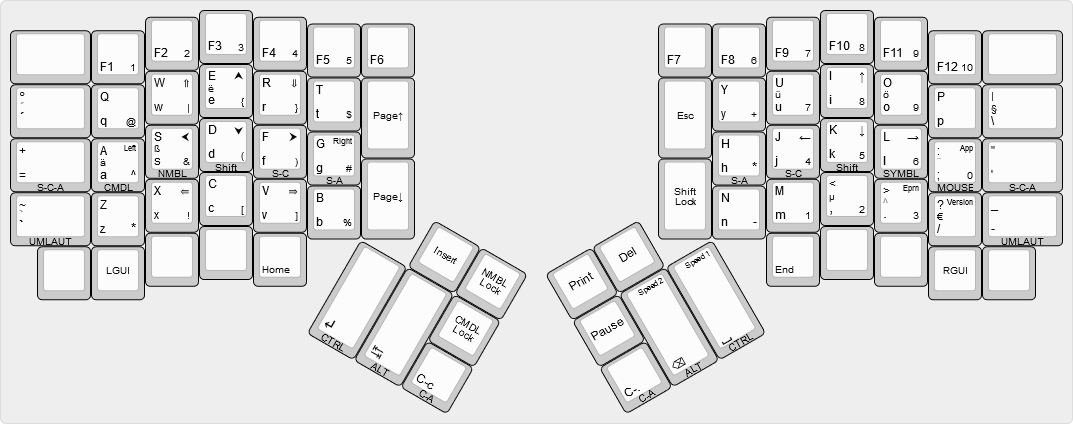
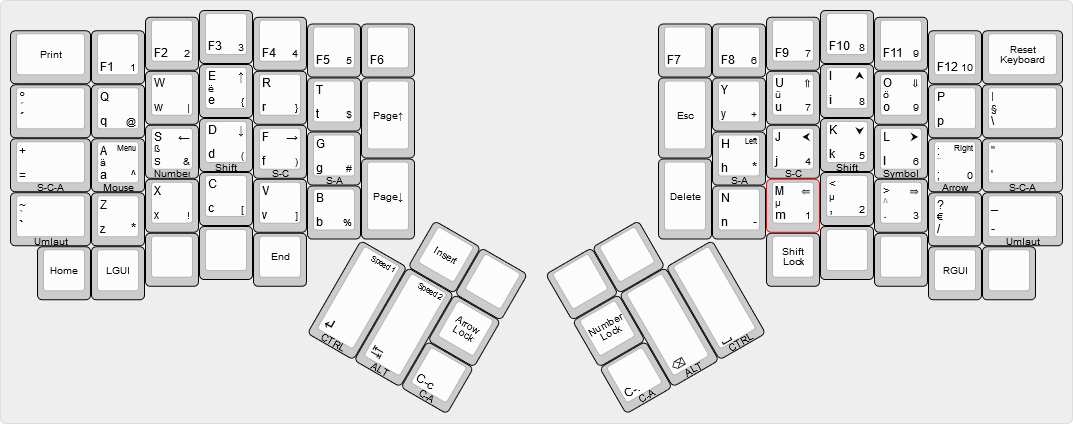
switched mouse and arrow layer, updated some other keys

diff --git a/keyboards/ergodox_ez/keymaps/wramos/keymap.c b/keyboards/ergodox_ez/keymaps/wramos/keymap.c
@@ -20,9 +20,7 @@ uint32_t GRAVE_WHEN_TAPPED_CAPS_WHEN_HELD_TIMER = 0;
 uint32_t MINUS_WHEN_TAPPED_CAPS_WHEN_HELD_TIMER = 0;
 
 enum custom_keycodes {
-    EPRM = SAFE_RANGE,
-    VRSN,
-    NON_LOCKING_CAPS,
+    NON_LOCKING_CAPS = SAFE_RANGE,
     SHIFT_LOCK,
     ctl_c_when_tapped_ctl_alt_when_held,
     ctl_dot_when_tapped_ctl_alt_when_held,
@@ -36,21 +34,21 @@ const uint16_t PROGMEM keymaps[][MATRIX_ROWS][MATRIX_COLS] = {
 
 /* Keymap 0: Basic layer
  * ,--------------------------------------------------.           ,--------------------------------------------------.
- * |        |  F1  |  F2  |  F3  |  F4  |  F5  |  F6  |           |  F7  |  F8  |  F9  |  F10 |  F11 |  F12 |        |
- * |--------+------+------+------+------+-------------|           |------+------+------+------+------+------+--------|
+ * | Print  |  F1  |  F2  |  F3  |  F4  |  F5  |  F6  |           |  F7  |  F8  |  F9  |  F10 |  F11 |  F12 | Reset  |
+ * |--------+------+------+------+------+------+------|           |------+------+------+------+------+------+--------|
  * |  NUBS  |   Q  |   W  |   E  |   R  |   T  | Page |           | ESC  |   Y  |   U  |   I  |   O  |   P  |   \    |
  * |--------+------+------+------+------+------|  up  |           |      |------+------+------+------+------+--------|
  * |Shift/= | L4/A | L1/S |S-C/D |S-A/F |MEH/G |------|           |------|MEH/H |S-A/J |S-C/K | L2/L | L3/; |Shift/' |
- * |--------+------+------+------+------+------| Page |           | Shift|------+------+------+------+------+--------|
- * | CAPS/` |   Z  |   X  |   C  |   V  |   B  | down |           | Lock |   N  |   M  |   ,  |   .  |   /  | CAPS/- |
+ * |--------+------+------+------+------+------| Page |           |Delete|------+------+------+------+------+--------|
+ * | CAPS/` |   Z  |   X  |   C  |   V  |   B  | down |           |      |   N  |   M  |   ,  |   .  |   /  | CAPS/- |
  * `--------+------+------+------+------+-------------'           `-------------+------+------+------+------+--------'
- *   |      | LGUI |      |      | HOME |                                       |  END |      |      | RGUI |      |
+ *   | HOME | LGUI |      |      | END  |                                       | SLock|      |      | RGUI |      |
  *   `----------------------------------'                                       `----------------------------------'
  *                                        ,-------------.       ,-------------.
- * L1 = number layer (NUMB)               |Insert| NUML |       |Print |Delete|
+ * L1 = number layer (NUMB)               |Insert|      |       |      |      |
  * L2 = symbol layer (SYMB)        ,------|------|------|       |------+------+------.
- * L3 = mouse layer (SPECIAL_LEFT) |CTL/  |ALT/  | CMDL |       |Pause |ALT/  |CTL/  |
- * L4 = command layer (..._RIGHT)  |ENTER |TAB   |------|       |------|BCKSPC|SPACE |
+ * L3 = arrow layer (SPECIAL_LEFT) |CTL/  |ALT/  |ARROWL|       | NUML |ALT/  |CTL/  |
+ * L4 = mouse layer (SPECIAL_RIGHT)|ENTER |TAB   |------|       |------|BCKSPC|SPACE |
  *                                 |      |      |CA/C-.|       |CA/C-c|      |      |
  *                                 `--------------------'       `--------------------'
  * CA = CTRL + ALT
@@ -61,22 +59,22 @@ const uint16_t PROGMEM keymaps[][MATRIX_ROWS][MATRIX_COLS] = {
  */
 [BASE] = LAYOUT_ergodox(
   // left hand
-  KC_NO,                            KC_F1,                  KC_F2,         KC_F3,             KC_F4,                      KC_F5,                      KC_F6,
+  KC_PSCR,                          KC_F1,                  KC_F2,         KC_F3,             KC_F4,                      KC_F5,                      KC_F6,
   KC_NUBS,                          KC_Q,                   KC_W,          KC_E,              KC_R,                       KC_T,                       KC_PGUP,
   MT(MOD_MEH,KC_EQL),               LT(SPECIAL_RIGHT,KC_A), LT(NUMB,KC_S), MT(MOD_LSFT,KC_D), MT(MOD_LSFT|MOD_LCTL,KC_F), MT(MOD_LSFT|MOD_LALT,KC_G),
   grave_when_tapped_caps_when_held, KC_Z,                   KC_X,          KC_C,              KC_V,                       KC_B,                       KC_PGDN,
-  KC_NO,                            KC_LGUI,                KC_NO,         KC_NO,             KC_HOME,
-                                                           KC_INS,              TG(NUMB),
-                                                                                TG(SPECIAL_RIGHT),
+  KC_HOME,                          KC_LGUI,                KC_NO,         KC_NO,             KC_END,
+                                                           KC_INS,              KC_NO,
+                                                                                TG(SPECIAL_LEFT),
                                       MT(MOD_LCTL,KC_ENT), MT(MOD_LALT,KC_TAB), ctl_c_when_tapped_ctl_alt_when_held,
   // right hand
-  KC_F7,      KC_F8,                      KC_F9,                      KC_F10,            KC_F11,        KC_F12,                   KC_NO,
-  KC_ESC,     KC_Y,                       KC_U,                       KC_I,              KC_O,          KC_P,                     KC_BSLS,
-              MT(MOD_RSFT|MOD_LALT,KC_H), MT(MOD_RSFT|MOD_RCTL,KC_J), MT(MOD_RSFT,KC_K), LT(SYMB,KC_L), LT(SPECIAL_LEFT,KC_SCLN), MT(MOD_MEH,KC_QUOT),
-  SHIFT_LOCK, KC_N,                       KC_M,                       KC_COMM,           KC_DOT,        KC_SLSH,                  minus_when_tapped_caps_when_held,
-                                          KC_END,                     KC_NO,             KC_NO,         KC_RGUI,                  KC_NO,
-  KC_PSCR,                               KC_DEL,
-  KC_PAUS,
+  KC_F7,  KC_F8,                      KC_F9,                      KC_F10,            KC_F11,        KC_F12,                   EEPROM_RESET,
+  KC_ESC, KC_Y,                       KC_U,                       KC_I,              KC_O,          KC_P,                     KC_BSLS,
+          MT(MOD_RSFT|MOD_LALT,KC_H), MT(MOD_RSFT|MOD_RCTL,KC_J), MT(MOD_RSFT,KC_K), LT(SYMB,KC_L), LT(SPECIAL_LEFT,KC_SCLN), MT(MOD_MEH,KC_QUOT),
+  KC_DEL, KC_N,                       KC_M,                       KC_COMM,           KC_DOT,        KC_SLSH,                  minus_when_tapped_caps_when_held,
+                                      SHIFT_LOCK,                 KC_NO,             KC_NO,         KC_RGUI,                  KC_NO,
+  KC_NO,                                 KC_NO,
+  TG(NUMB),
   ctl_dot_when_tapped_ctl_alt_when_held, MT(MOD_LALT,KC_BSPC), MT(MOD_RCTL,KC_SPC)
 ),
 /* Keymap 1: Number Layer
@@ -129,7 +127,7 @@ const uint16_t PROGMEM keymaps[][MATRIX_ROWS][MATRIX_COLS] = {
  * |---------+------+------+------+------+------|      |           |      |------+------+------+------+------+--------|
  * |         |   ^  |   &  |   (  |   )  |   #  |------|           |------|      |      |      |      |      |        |
  * |---------+------+------+------+------+------|      |           |      |------+------+------+------+------+--------|
- * |         |   ~  |   !  |   [  |   ]  |   %  |      |           |      |      |      |      |      |      |        |
+ * |         |   *  |   !  |   [  |   ]  |   %  |      |           |      |      |      |      |      |      |        |
  * `---------+------+------+------+------+-------------'           `-------------+------+------+------+------+--------'
  *   |       |      |      |      |      |                                       |      |      |      |      |      |
  *   `-----------------------------------'                                       `----------------------------------'
@@ -163,17 +161,17 @@ KC_TRNS, KC_TRNS, KC_TRNS
 ),
 /* Keymap 3: Special (left hand side)
  *
- * ,--------------------------------------------------.          ,--------------------------------------------------.
- * |        |      |      |      |      |      |      |          |      |      |      |      |      |      |        |
- * |--------+------+------+------+------+-------------|          |------+------+------+------+------+------+--------|
- * |        |      | MWup | MsUp |MWdown|      |      |          |      |      |      |      |      |      |        |
- * |--------+------+------+------+------+------|      |          |      |------+------+------+------+------+--------|
- * |        | Lclk |MsLeft|MsDown|MsRght| Rclk |------|          |------|      | MAcc2| MAcc1| MAcc0|      |        |
- * |--------+------+------+------+------+------|      |          |      |------+------+------+------+------+--------|
- * |        |      |MWleft|      | MWrgt|      |      |          |      |      |      |      |      |      |        |
- * `--------+------+------+------+------+-------------'          `-------------+------+------+------+------+--------'
- *   |      |      |      |      |      |                                      |      |      |      |      |      |
- *   `----------------------------------'                                      `----------------------------------'
+ * ,--------------------------------------------------.           ,--------------------------------------------------.
+ * |        |      |      |      |      |      |      |           |      |      |      |      |      |      |        |
+ * |--------+------+------+------+------+-------------|           |------+------+------+------+------+------+--------|
+ * |        |      |      |  UP  |      |      |      |           |      |      |      |      |      |      |        |
+ * |--------+------+------+------+------+------|      |           |      |------+------+------+------+------+--------|
+ * |        | APP  | LEFT | DOWN | RIGHT|      |------|           |------|      |      |      |      |      |        |
+ * |--------+------+------+------+------+------|      |           |      |------+------+------+------+------+--------|
+ * |        |      |      |      |      |      |      |           |      |      |      |      |      |      |        |
+ * `--------+------+------+------+------+-------------'           `-------------+------+------+------+------+--------'
+ *   |      |      |      |      |      |                                       |      |      |      |      |      |
+ *   `----------------------------------'                                       `----------------------------------'
  *                                        ,-------------.       ,-------------.
  *                                        |      |      |       |      |      |
  *                                 ,------|------|------|       |------+------+------.
@@ -185,9 +183,9 @@ KC_TRNS, KC_TRNS, KC_TRNS
 [SPECIAL_LEFT] = LAYOUT_ergodox(
 // left hand
 KC_TRNS, KC_TRNS, KC_TRNS, KC_TRNS, KC_TRNS, KC_TRNS, KC_TRNS,
-KC_TRNS, KC_TRNS, KC_WH_U, KC_MS_U, KC_WH_D, KC_TRNS, KC_TRNS,
-KC_TRNS, KC_BTN1, KC_MS_L, KC_MS_D, KC_MS_R, KC_BTN2,
-KC_TRNS, KC_TRNS, KC_WH_L, KC_TRNS, KC_WH_R, KC_TRNS, KC_TRNS,
+KC_TRNS, KC_TRNS, KC_TRNS, KC_UP,   KC_TRNS, KC_TRNS, KC_TRNS,
+KC_TRNS, KC_APP,  KC_LEFT, KC_DOWN, KC_RGHT, KC_TRNS,
+KC_TRNS, KC_TRNS, KC_TRNS, KC_TRNS, KC_TRNS, KC_TRNS, KC_TRNS,
 KC_TRNS, KC_TRNS, KC_TRNS, KC_TRNS, KC_TRNS,
 KC_TRNS, KC_TRNS,
 KC_TRNS,
@@ -200,27 +198,27 @@ KC_TRNS, KC_TRNS, KC_TRNS, KC_TRNS, KC_TRNS, KC_TRNS, KC_TRNS,
                   KC_TRNS, KC_TRNS, KC_TRNS, KC_TRNS, KC_TRNS,
 KC_TRNS, KC_TRNS,
 KC_TRNS,
-KC_TRNS, KC_ACL2, KC_ACL1
+KC_TRNS, KC_TRNS, KC_TRNS
 ),
 /* Keymap 4: Special (right hand side)
  *
  * ,---------------------------------------------------.           ,--------------------------------------------------.
  * |         |      |      |      |      |      |      |           |      |      |      |      |      |      |        |
  * |---------+------+------+------+------+------+------|           |------+------+------+------+------+------+--------|
- * |         |      |      |      |      |      |      |           |      |      |      |  UP  |      |      |        |
+ * |         |      |      |      |      |      |      |           |      |      | MWup | MsUp |MWdown|      |        |
  * |---------+------+------+------+------+------|      |           |      |------+------+------+------+------+--------|
- * |         |      |      |      |      |      |------|           |------|      | LEFT | DOWN | RIGHT| APP  |        |
+ * |         |      |      |      |      |      |------|           |------| LClk |MsLeft|MsDown|MsRght| RClk |        |
  * |---------+------+------+------+------+------|      |           |      |------+------+------+------+------+--------|
- * |         |      |      |      |      |      |      |           |      |      |      |      | EPRN | VRSN |        |
+ * |         |      |      |      |      |      |      |           |      |      |MWleft|      | MWrgt|      |        |
  * `---------+------+------+------+------+-------------'           `-------------+------+------+------+------+--------'
  *   |       |      |      |      |      |                                       |      |      |      |      |      |
  *   `-----------------------------------'                                       `----------------------------------'
  *                                        ,-------------.       ,-------------.
  *                                        |      |      |       |      |      |
  *                                 ,------|------|------|       |------+------+------.
- *                                 |      |      |      |       |      |      |      |
- *                                 |      |      |------|       |------|      |      |
- *                                 |      |      |      |       |      |      |      |
+ *                                 |Mouse |Mouse |      |       |      |      |      |
+ *                                 |Speed |Speed |------|       |------|      |      |
+ *                                 |  1   |  2   |      |       |      |      |      |
  *                                 `--------------------'       `--------------------'
  */
 [SPECIAL_RIGHT] = LAYOUT_ergodox(
@@ -230,14 +228,14 @@ KC_TRNS, KC_TRNS, KC_TRNS, KC_TRNS, KC_TRNS, KC_TRNS, KC_TRNS,
 KC_TRNS, KC_TRNS, KC_TRNS, KC_TRNS, KC_TRNS, KC_TRNS,
 KC_TRNS, KC_TRNS, KC_TRNS, KC_TRNS, KC_TRNS, KC_TRNS, KC_TRNS,
 KC_TRNS, KC_TRNS, KC_TRNS, KC_TRNS, KC_TRNS,
-KC_TRNS, KC_TRNS,
-KC_TRNS,
-KC_TRNS, KC_TRNS, KC_TRNS,
-// TODO: right hand
+         KC_TRNS, KC_TRNS,
+                  KC_TRNS,
+KC_ACL1, KC_ACL2, KC_TRNS,
+// right hand
 KC_TRNS, KC_TRNS, KC_TRNS, KC_TRNS, KC_TRNS, KC_TRNS, KC_TRNS,
-KC_TRNS, KC_TRNS, KC_TRNS, KC_UP,   KC_TRNS, KC_TRNS, KC_TRNS,
-         KC_TRNS, KC_LEFT, KC_DOWN, KC_RGHT, KC_APP,  KC_TRNS,
-KC_TRNS, KC_TRNS, KC_TRNS, KC_TRNS, EPRM,    VRSN,    KC_TRNS,
+KC_TRNS, KC_TRNS, KC_WH_U, KC_MS_U, KC_WH_D, KC_TRNS, KC_TRNS,
+         KC_BTN1, KC_MS_L, KC_MS_D, KC_MS_R, KC_BTN2, KC_TRNS,
+KC_TRNS, KC_TRNS, KC_WH_L, KC_TRNS, KC_WH_R, KC_TRNS, KC_TRNS,
                   KC_TRNS, KC_TRNS, KC_TRNS, KC_TRNS, KC_TRNS,
 KC_TRNS, KC_TRNS,
 KC_TRNS,
@@ -248,16 +246,6 @@ KC_TRNS, KC_TRNS, KC_TRNS
 
 bool process_record_user(uint16_t keycode, keyrecord_t *record) {
     switch (keycode) {
-    case EPRM:
-        if (record->event.pressed) {
-            eeconfig_init();
-            return false;
-        }
-    case VRSN:
-        if (record->event.pressed) {
-            SEND_STRING (QMK_KEYBOARD "/" QMK_KEYMAP " @ " QMK_VERSION);
-            return false;
-        }
     case NON_LOCKING_CAPS:
         tap_code(KC_CAPS);
         return false;
@@ -266,9 +254,13 @@ bool process_record_user(uint16_t keycode, keyrecord_t *record) {
             if(IS_SHIFT_LOCK_ON == false) {
                 register_code(KC_LSHIFT);
                 IS_SHIFT_LOCK_ON = true;
+                ergodox_right_led_2_on();
+                ergodox_right_led_3_on();
             } else {
                 unregister_code(KC_LSHIFT);
                 IS_SHIFT_LOCK_ON = false;
+                ergodox_right_led_2_off();
+                ergodox_right_led_3_off();
             }
         }
         return false;
@@ -381,8 +373,9 @@ uint32_t layer_state_set_user(uint32_t state) {
         ergodox_right_led_3_on();
         break;
       case 6:
-        ergodox_right_led_2_on();
-        ergodox_right_led_3_on();
+          /* reserved for shift lock */
+          /* ergodox_right_led_2_on(); */
+          /* ergodox_right_led_3_on(); */
         break;
       case 7:
         ergodox_right_led_1_on();

diff --git a/keyboards/ergodox_ez/keymaps/wramos/config.h b/keyboards/ergodox_ez/keymaps/wramos/config.h
@@ -11,7 +11,7 @@
 #define PERMISSIVE_HOLD
 
 #undef QMK_KEYS_PER_SCAN
-#define QMK_KEYS_PER_SCAN 4
+#define QMK_KEYS_PER_SCAN 8
 
 #define NO_ACTION_ONESHOT
 
